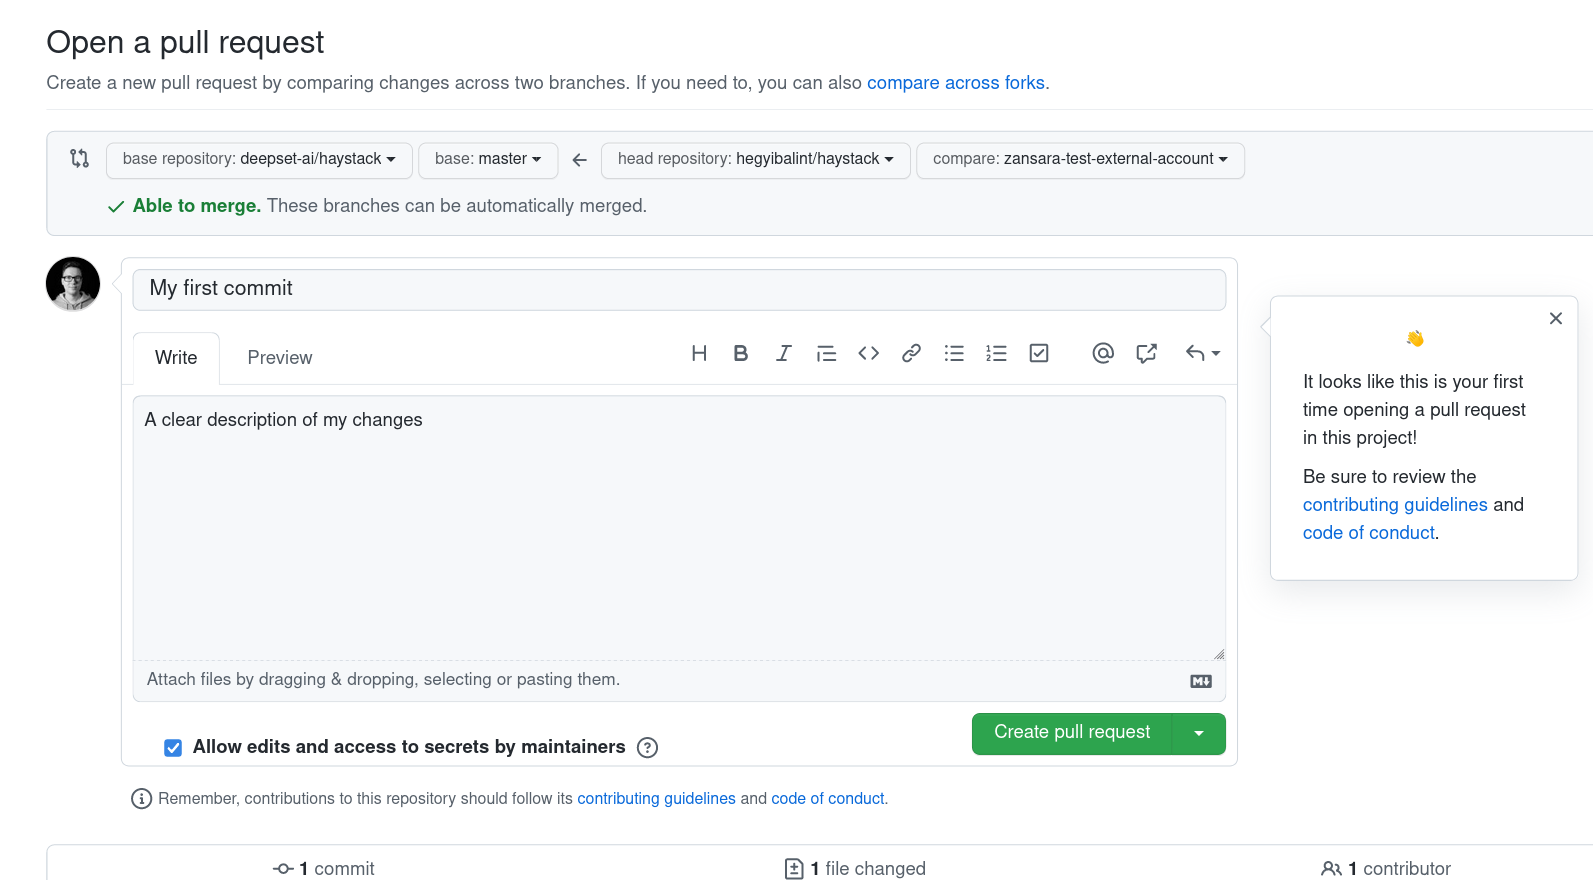
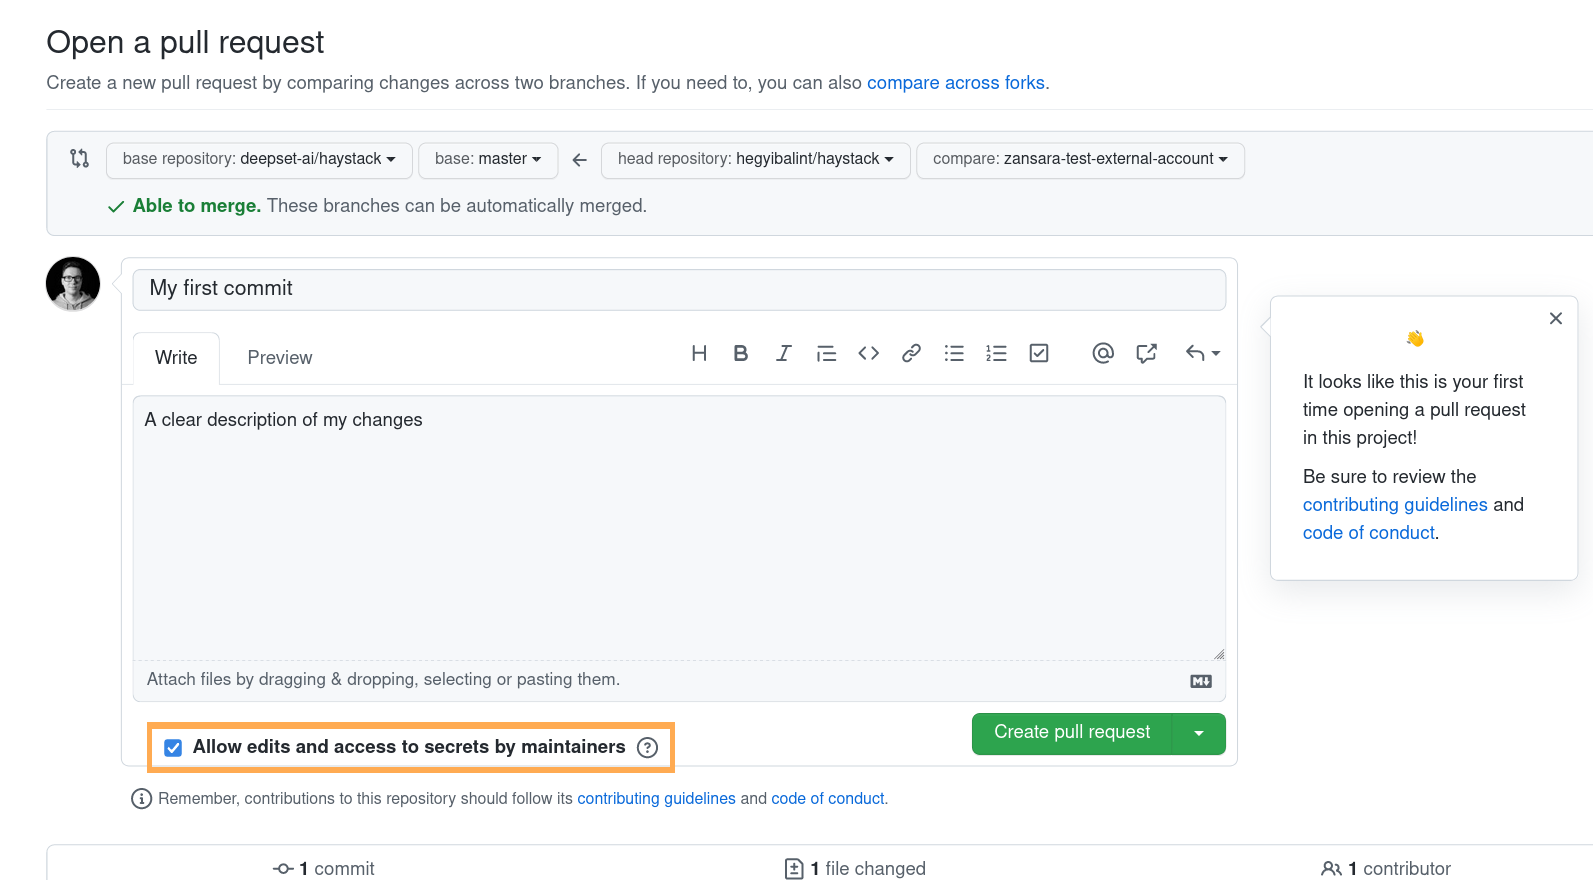
Add screenshot of the check to enable maintainer's access to the fork

Changed region(s): [[0.0923, 0.7977, 0.4306, 0.8898]]

diff --git a/CONTRIBUTING.md b/CONTRIBUTING.md
@@ -30,7 +30,10 @@ these actions are configured to run on your fork instead of on the base reposito
 
 <p align="center"><img src="https://raw.githubusercontent.com/deepset-ai/haystack/master/docs/_src/img/fork_action_config.png"></p>
 
-2. Verify that "Allow edits and access to secrets by maintainers" on the PR page's sidebar is checked
+2. Verify that "Allow edits and access to secrets by maintainers" on the PR preview page is checked (you can check it later on the PR's sidebar once it's created).
+
+<p align="center"><img src="https://raw.githubusercontent.com/deepset-ai/haystack/master/docs/_src/img/first_time_contributor_enable_access.png"></p>
+
 
 3. Make sure the branch of your fork where you push your changes is not called `master`. If it is, either change its name or remember to manually trigger the `Code & Documentation Updates` action after a push.
 
